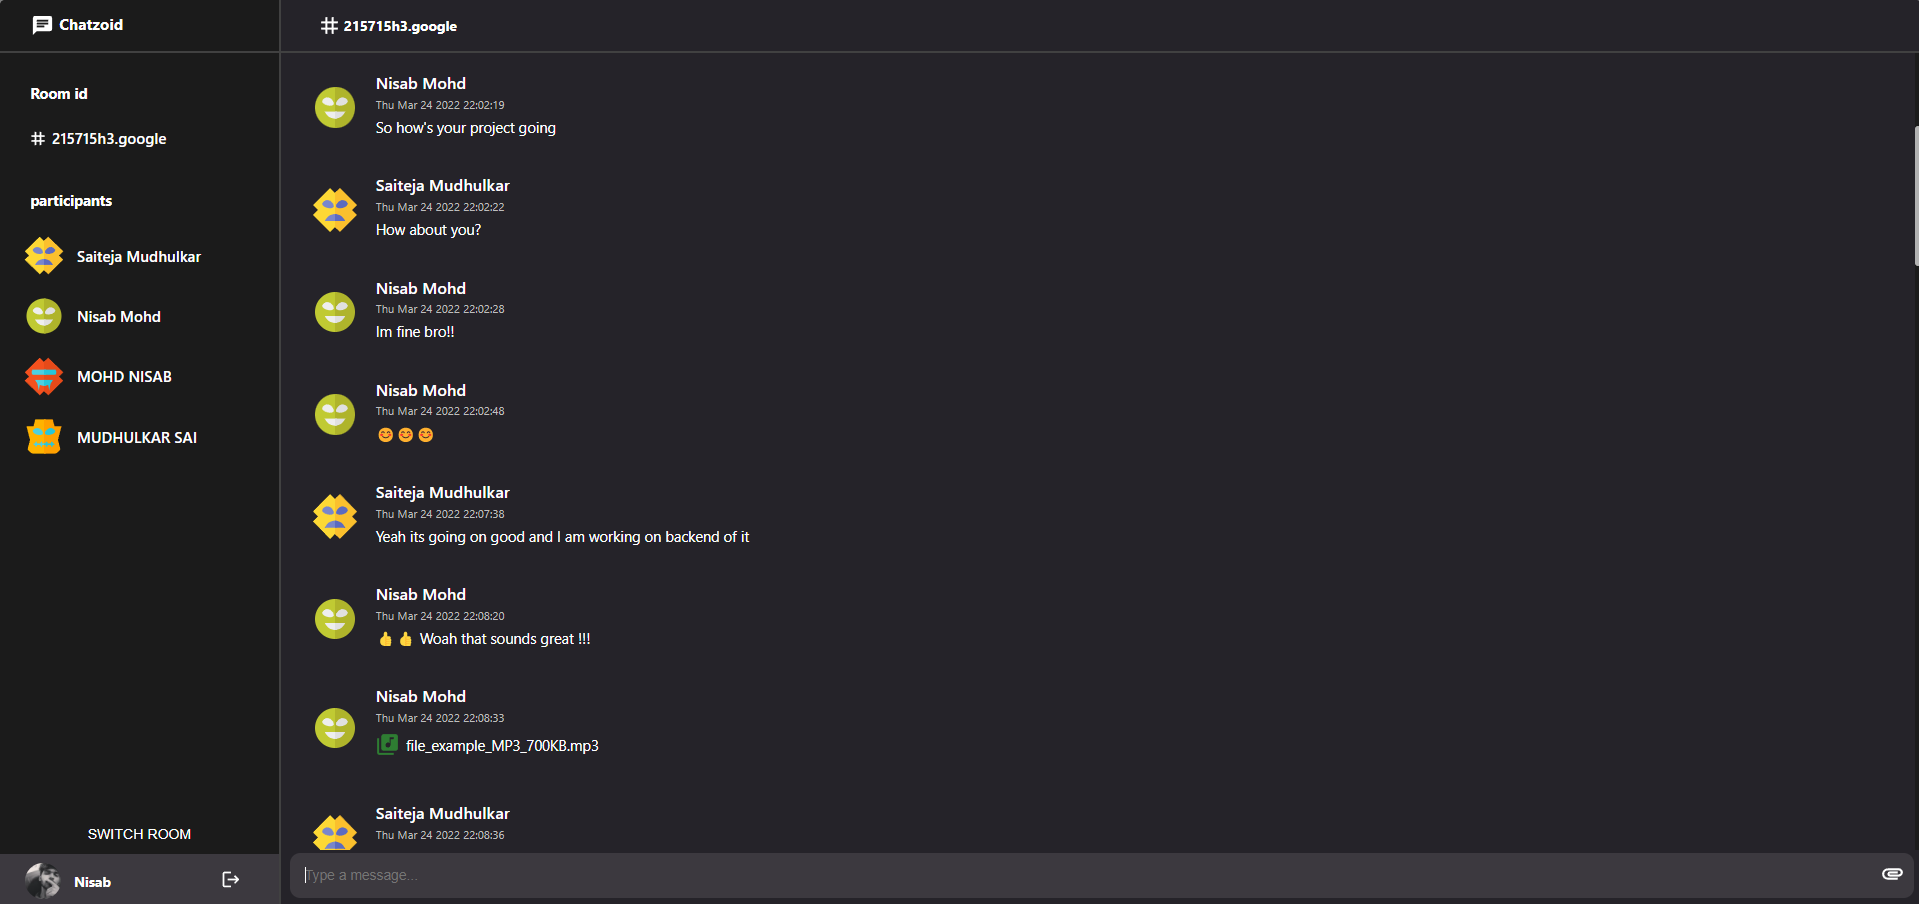
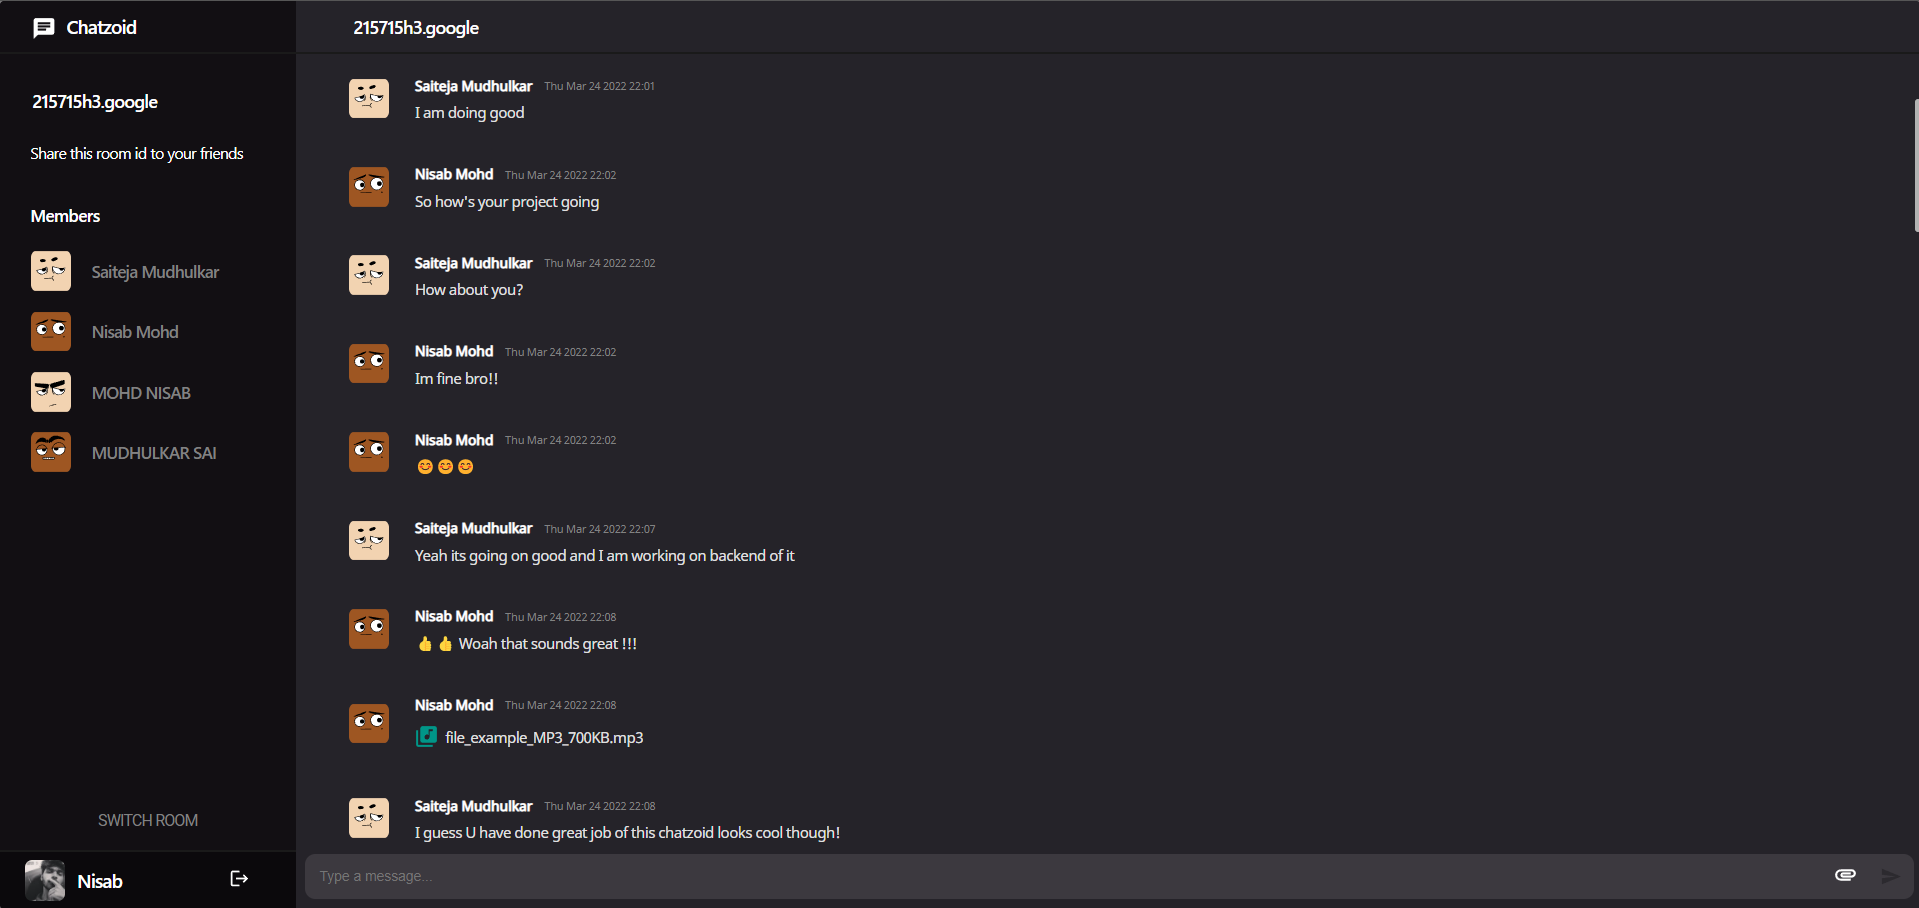
enhanced ui

diff --git a/src/Leftbar.js b/src/Leftbar.js
@@ -1,13 +1,12 @@
 import React, { useEffect, useState } from 'react'
 import ChatIcon from '@mui/icons-material/Chat';
 import LogoutIcon from '@mui/icons-material/Logout';
-import TagIcon from '@mui/icons-material/Tag';
 import { collection, onSnapshot, query } from 'firebase/firestore';
 import { db } from './firebase';
 import { Button } from '@mui/material';
 import MenuIcon from '@mui/icons-material/Menu';
 import './css/Responsive.css'
-import CloseIcon from '@mui/icons-material/Close';
+import ArrowBackIosNewIcon from '@mui/icons-material/ArrowBackIosNew';
 export const Leftbar = (props) => {
   const [show, setShow] = useState(false)
   const [user, setUser] = useState([])
@@ -31,48 +30,50 @@ export const Leftbar = (props) => {
     <>
       <div className="hamburger">
         {
-          (!show) ? (<button onClick={() => { menu() }} style={{ width: 'fit-content', margin: '0', outline: 'none', border: 'none', backgroundColor: 'transparent', cursor: 'pointer' }}><MenuIcon style={{ margin: '0', fontSize: '19px', marginBottom: '-4.5px',color:'white' }} ></MenuIcon></button>) : (<button onClick={() => { menu() }} style={{ width: 'fit-content', margin: '0', outline: 'none', border: 'none', backgroundColor: 'transparent', cursor: 'pointer',color:'white'  }}><CloseIcon style={{ fontSize: '19px', marginBottom: '-4.5px' }}></CloseIcon></button>)
+          (!show) ? (<button onClick={() => { menu() }} style={{ width: 'fit-content', margin: '0', outline: 'none', border: 'none', backgroundColor: 'transparent', cursor: 'pointer' }}><MenuIcon style={{ margin: '0', fontSize: '19px', marginBottom: '-4.5px', color: 'white' }} ></MenuIcon></button>) : (<button onClick={() => { menu() }} style={{ width: 'fit-content', margin: '0', outline: 'none', border: 'none', backgroundColor: 'transparent', cursor: 'pointer', color: 'white' }}><ArrowBackIosNewIcon style={{ fontSize: '17px', marginBottom: '-5.85px' }}></ArrowBackIosNewIcon></button>)
         }
 
       </div>
-      <div className='leftbar' id='showleft' style={{ backgroundColor: 'rgb(27,27,27)', minWidth: '262px', borderRight: '1.93px solid #414141', position: 'relative', height: '100%', flex: '0.17', transition: 'all 0.25s' }}>
+      <div className='leftbar' id='showleft' style={{ backgroundColor: 'rgb(18,15,19)', minWidth: '284px', position: 'relative', height: '100%', flex: '0.17', transition: 'all 0.25s' }}>
 
-        <div className="roomdetails" style={{ height: '48.75px', borderBottom: '2px solid #414141', display: 'flex', alignItems: 'center', position: 'relative',}}>
-          <ChatIcon color="diabled" style={{ marginLeft: '30px', width: '22px' }}></ChatIcon>
-          <h4 style={{ marginLeft: '5px', fontSize: '14.85px', marginTop: '-4px', color: 'white' }}>Chatzoid</h4>
+        <div className="roomdetails" style={{ height: '48.75px', borderBottom: '2px solid rgb(26,26,26)', display: 'flex', alignItems: 'center', position: 'relative',backgroundColor:'#120F13' }}>
+          <ChatIcon color="diabled" style={{ marginLeft: '30px', width: '25px', marginBottom: '-4px' }}></ChatIcon>
+          <h4 style={{ marginLeft: '9px', marginTop: '0px', color: 'white', font: 'Noto Sans', fontWeight: '500', fontStyle: 'normal', fontSize: '18px', letterSpacing: '-0.035em' }}>Chatzoid</h4>
         </div>
+
+        <div className="rommspecificidandp" style={{ display: 'flex', flexDirection: 'row', alignItems: 'center', marginTop: '34px' }}>
+          <p style={{ color: 'white', font: 'Noto Sans', fontWeight: '500', fontStyle: 'normal', fontSize: '17px', letterSpacing: '-0.035em', marginLeft: '31px', marginRight: '26px' }}>{props.roomid}</p>
+
+        </div>
+
         <div className="roomidandstuff" style={{ display: 'flex', flexDirection: 'row', alignItems: 'center', justifyContent: 'space-between', padding: '0 29px', marginTop: '29px' }}>
-          <h5 style={{ color: 'white', fontSize: '14px' }}>Room id</h5>
+          <hp style={{ color: 'white', font: 'Noto Sans', fontWeight: '400', fontStyle: 'normal', fontSize: '15px', letterSpacing: '-0.035em'}}>Share this room id to your friends</hp>
         </div>
-        <div className="rommspecificidandp" style={{ display: 'flex', flexDirection: 'row', alignItems: 'center', marginTop: '22px' }}>
-          <TagIcon style={{ marginLeft: '27px', width: '19px' }} color="diabled"></TagIcon>
-          <p style={{ color: 'white', fontSize: '14.5px', fontWeight: '600', marginLeft: '4px', marginRight: '26px' }}>{props.roomid}</p>
 
-        </div>
 
         <div className="sepater" style={{ marginTop: '29px', overflowY: 'scroll', height: '50vh' }}>
           <div className="roomidandstuff" style={{ display: 'flex', flexDirection: 'row', alignItems: 'center', justifyContent: 'space-between', padding: '0 29px', marginTop: '9px', marginBottom: '23.5px' }}>
-            <h5 style={{ color: 'white', fontSize: '14px' }}>participants</h5>
+            <h5 style={{ color: 'white', font: 'Noto Sans', fontWeight: '500', fontStyle: 'normal', fontSize: '16.5px', letterSpacing: '-0.035em' }}>Members</h5>
           </div>
           {
             Array.from(new Set(user)).map((item) => {
               return (
                 <div className="people" style={{ display: 'flex', flexDirection: 'row', alignItems: 'center', marginTop: '9px', marginBottom: '18px' }}>
-                  <img style={{ width: '40px', borderRadius: '100%', marginLeft: '22px' }} src={`https://avatars.dicebear.com/api/gridy/${item}.svg`} alt="" />
-                  <p style={{ color: 'white', fontSize: '14.5px', fontWeight: '600', marginLeft: '12px' }}>{item.split(' ')[0] + " " + item.split(' ')[1]}</p>
+                  <img style={{ width: '38px', height: '40px', borderRadius: '7px', marginLeft: '29.99px' }} src={`https://avatars.dicebear.com/api/adventurer-neutral/${item}.svg`} alt="" />
+                  <p style={{ color: '#828282', marginLeft: '19.9px', font: 'Noto Sans', fontWeight: '500', fontStyle: 'normal', fontSize: '16px', letterSpacing: '-0.035em' }}>{item.split(' ')[0] + " " + item.split(' ')[1]}</p>
                 </div>)
             })
           }
         </div>
-        <div className="switchroom" style={{ width: '100%', position: 'absolute', bottom: '55px', display: 'flex', justifyContent: 'center', alignItems: 'center' }}>
-          <Button onClick={() => { props.switchroom() }} size="small" sx={{ fontWeight: '500',color:'white' }}>
+        <div className="switchroom" style={{ width: '100%', position: 'absolute', bottom: '68px', display: 'flex', justifyContent: 'center', alignItems: 'center' }}>
+          <Button onClick={() => { props.switchroom() }} size="small" sx={{ color: '#828282', font: 'Noto Sans', fontWeight: '500', fontStyle: 'normal', fontSize: '15px', letterSpacing: '-0.039em' }}>
             switch room
           </Button>
         </div>
-        <div className="userdetails" style={{ marginTop: 'auto', display: 'flex', flexDirection: 'row', alignItems: 'center', position: 'absolute', bottom: '0px', height: '52px', backgroundColor: 'rgb(60,57,63)', width: '100%' }}>
-          <img src={props.photo} style={{ width: '35px', borderRadius: '100%', marginLeft: '24px' }} alt="" />
-          <h5 style={{ marginLeft: '12px', color: 'white' }}>{props.name.split(' ')[0]}</h5>
-          <button onClick={() => { props.logout(); }} style={{ cursor: 'pointer', width: '100%', marginLeft: '59px', outline: 'none', border: 'none', backgroundColor: 'transparent', position: 'absolute', left: '29px' }}><LogoutIcon style={{ width: '20px',color:'white' }}></LogoutIcon></button>
+        <div className="userdetails" style={{ marginTop: 'auto', display: 'flex', flexDirection: 'row', alignItems: 'center', position: 'absolute', bottom: '0px', height: '55px', backgroundColor: '#0B090C', width: '100%',borderTop:'2px solid rgb(26,26,26)' }}>
+          <img src={props.photo} style={{ width: '38px', height: '40px', borderRadius: '7px', marginLeft: '24px' }} alt="" />
+          <h5 style={{ marginLeft: '12px', color: 'white', font: 'Noto Sans', fontWeight: '500', fontStyle: 'normal', fontSize: '18px', letterSpacing: '-0.035em', zIndex: '99' }}>{props.name.split(' ')[0]}</h5>
+          <button onClick={() => { props.logout(); }} style={{ cursor: 'pointer', width: '100%', marginLeft: '59px', outline: 'none', border: 'none', backgroundColor: 'transparent', position: 'absolute', left: '29px' }}><LogoutIcon style={{ width: '20px', color: 'white' }}></LogoutIcon></button>
         </div>
       </div>
     </>

diff --git a/src/Chat.jsx b/src/Chat.jsx
@@ -7,14 +7,16 @@ import { db, storage } from './firebase';
 import { addDoc, collection, onSnapshot, orderBy, query } from 'firebase/firestore';
 import { serverTimestamp } from 'firebase/firestore';
 import { ref, uploadBytesResumable, getDownloadURL } from "firebase/storage";
-import { LinearProgress } from '@mui/material';
+import { Button, LinearProgress } from '@mui/material';
 import Navbar from './Navbar'
 import ImageIcon from '@mui/icons-material/Image';
 import PictureAsPdfIcon from '@mui/icons-material/PictureAsPdf';
 import LibraryMusicIcon from '@mui/icons-material/LibraryMusic';
 import VideocamIcon from '@mui/icons-material/Videocam';
-import { red } from '@mui/material/colors';
+import {red, teal } from '@mui/material/colors';
 import AttachmentIcon from '@mui/icons-material/Attachment';
+import SendIcon from '@mui/icons-material/Send';
+import './css/Responsive.css'
 function Chat(props) {
     const [input, setInput] = useState("")
     const [message, setMessage] = useState([])
@@ -128,13 +130,12 @@ function Chat(props) {
                     message.map((item, index) => {
                         return (
                             <div className="messageboxcont">
-                                <img style={{ width: '46.5px', marginTop: '3px',marginRight:'0px' }} src={`https://avatars.dicebear.com/api/gridy/${item.name}.svg`} alt="" />
+                                <img style={{ width: '38px',height:'40px', borderRadius: '7px', marginTop: '-6px',marginRight:'9px',marginLeft:'1.25vw' }} src={`https://avatars.dicebear.com/api/adventurer-neutral/${item.name}.svg`} alt="" />
                                 <div className="messagebox">
-                                    <div style={{ display: 'flex', flexDirection: 'column' }}>
-
-                                        <h5 style={{ fontSize: '15.65px', fontWeight: '600' }}>{item.name.split(' ')[0] + " " + item.name.split(' ')[1]}</h5>
-                                        <div className="timestamp" style={{ marginTop: '3.5px' }}>
-                                            <p style={{ color: '#bebebe', fontSize: '10.85px' }}>{item.timestamp?.toDate().toString().slice(0, 25)}</p>
+                                    <div style={{ display: 'flex', flexDirection: 'row',alignItems:'center' }}>
+                                        <h5  className='fontemmm'>{item.name.split(' ')[0] + " " + item.name.split(' ')[1]}</h5>
+                                        <div className="timestamp" style={{marginLeft:'11.25px',marginBottom:'-2px' }}>
+                                            <p className='tieemmm' style={{fontSize: '1.15em',color:'#828282',lineHeight:'25px',letterSpacing:'-0.035em',fontFamily:'Noto Sans' }}>{item.timestamp?.toDate().toString().slice(0, 21)}</p>
                                         </div>
                                     </div>
                                     {
@@ -150,13 +151,13 @@ function Chat(props) {
                                                     {
 
                                                         (item.filetype === "application/pdf") ? (
-                                                            <PictureAsPdfIcon sx={{ color: red[700] }} style={{ marginRight: '6px', fontSize: '24px' }}></PictureAsPdfIcon>
+                                                            <PictureAsPdfIcon sx={{ color: red[500] }} style={{ marginRight: '6px', fontSize: '24px' }}></PictureAsPdfIcon>
                                                         ) : (<></>)
                                                     }
                                                     {
 
                                                         (item.filetype === "audio/mpeg") ? (
-                                                            <LibraryMusicIcon color="success" style={{ marginRight: '6px', fontSize: '24px' }}></LibraryMusicIcon>
+                                                            <LibraryMusicIcon sx={{ color: teal[500] }} style={{ marginRight: '6px', fontSize: '24px' }}></LibraryMusicIcon>
                                                         ) : (<></>)
                                                     }
                                                     {
@@ -177,10 +178,6 @@ function Chat(props) {
                                             </p>
                                         )
                                     }
-                                    {/* <div className="timestamp" style={{marginTop:'3px',marginLeft:'-23px'}}>
-                                    {item.timestamp.toDate().toString().slice(0,25)}
-                                    </div> */}
-
                                 </div>
                             </div>
                         )
@@ -194,13 +191,13 @@ function Chat(props) {
                     <input type="file" name="" onChange={(e) => handlefiles(e)} id="filein" hidden />
                     <label htmlFor='filein' style={{ border: 'none', outline: 'none', cursor: 'pointer' }}><AttachmentIcon /></label>
 
-                    {/* {
-                        input ? (<Button onClick={() => { sendMessage() }} variant="outlined" style={{ height: '35px', marginRight: '9px' }} size="small">
-                            <p style={{ fontWeight: 'bold' }}>send</p>
-                        </Button>) : (<Button disabled variant="outlined" style={{ height: '35px', marginRight: '9px' }} size="small">
-                            <p style={{ fontWeight: 'bold' }}>send</p>
+                    {
+                        input ? (<Button onClick={() => { sendMessage() }} style={{ height: '35px', marginRight: '-19px' }} size="small">
+                            <SendIcon  sx={{fontSize:"21px"}}></SendIcon>
+                        </Button>) : (<Button disabled style={{ height: '35px', marginRight: '-19px' }} size="small">
+                            <SendIcon sx={{fontSize:"21px"}}></SendIcon>
                         </Button>)
-                    } */}
+                    }
 
                 </div>
             </div>

diff --git a/src/css/chatpage.css b/src/css/chatpage.css
@@ -3,7 +3,7 @@
     flex-direction: column;
     flex: 1;
     position: relative;
-    background-color: rgb(37,35,41);
+    background-color: #252329;
 }
 .avatar__chat__header img{
     width: 40px;
@@ -86,10 +86,15 @@
     user-select: none;
 }
 .chat__body__message{
-    font-size: 13.995px;
-    color:rgb(255, 255, 255);
+    font-family: 'Noto Sans';
+    font-style: normal;
+    font-weight: 500;
+    font-size: 14.5px;
+    line-height: 25px;
+    letter-spacing: -0.035em;
+    color: #E0E0E0;
     word-wrap: break-word;
-    padding-top: 5px;
+    padding-top: 2px;
     background-color: transparent;
 }
 .messageboxcont{
@@ -108,9 +113,30 @@
     height:85.65%;
     padding-bottom: 19px;
 }
+
+.chat__body::-webkit-scrollbar-track
+{
+	-webkit-box-shadow: inset 0 0 6px #252329;
+	border-radius: 10px;
+    scroll-behavior: smooth;
+}
+.chat__body::-webkit-scrollbar
+{
+	height: 9px;
+    width: 6px;
+    background-color: #252329;
+}
+
+.chat__body::-webkit-scrollbar-thumb
+{
+	border-radius: 10px;
+	-webkit-box-shadow: inset 0 0 6px rgba(189, 189, 189, 0.3);
+	background-color: rgb(177, 177, 177);
+}
+
 *::-webkit-scrollbar-track
 {
-	-webkit-box-shadow: inset 0 0 6px rgb(27,27,27);
+	-webkit-box-shadow: inset 0 0 6px rgb(18, 15, 19);
 	border-radius: 10px;
     scroll-behavior: smooth;
 }
@@ -118,7 +144,7 @@
 {
 	height: 9px;
     width: 6px;
-    background-color: rgb(27,27,27);
+    background-color: rgb(18, 15, 19);
 }
 
 *::-webkit-scrollbar-thumb
@@ -147,4 +173,12 @@
 	border-radius: 10px;
 	-webkit-box-shadow: inset 0 0 6px rgba(189, 189, 189, 0.3);
 	background-color: rgb(187, 187, 187);
+}
+.fontemmm{
+    font-size: '1em';
+    font-weight: '600';
+    color:'#828282';
+    line-height:'25px';
+    letter-spacing:'-0.035em';
+    font-family:'Noto Sans';
 }

diff --git a/src/Login.js b/src/Login.js
@@ -14,7 +14,7 @@ export const Login = (props) => {
         alignItems:'center',
         height: 'fit-content',
         padding:'62px 21px',
-        backgroundColor:'rgb(37,35,41)',
+        backgroundColor:'#252329',
         borderRadius:'8px',
         textAlign:'center'
     }
@@ -28,13 +28,12 @@ export const Login = (props) => {
 
         <div className='login' style={loginstyle}>
             <ChatIcon color="primary" sx={{ fontSize: 120 }} ></ChatIcon>
-            {/* <img style={{width:'120px'}} src={logo} alt="" /> */}
             <p style={{margin:'15px 0',fontSize:'22px',fontWeight:'400',color:'white',width:"295px",textAlign:'center'}}>Chatzoid</p>
             <h2 style={{color:'white',fontWeight:'400'}}>Welcome Back!</h2>
             <p style={{fontSize:'16px',width:'295px',marginTop:'9px',color:'white'}}>we are so exicted to see you again</p>
             <Button variant="text" sx={{ marginTop: '21px',width:'fit-content' }} onClick={senduserdetails} size="large">
                 <GoogleIcon color="white" style={{width:'24px'}}></GoogleIcon>
-                <p style={{width:'190px',color:'white',fontWeight:'600',marginLeft:'3px',marginBottom:'-3px'}}>Login using Google</p>
+                <p style={{width:'190px',color:'white',fontWeight:'500',marginLeft:'3px',marginBottom:'-3px'}}>Login using Google</p>
             </Button>
         </div>
     );

diff --git a/src/Room.js b/src/Room.js
@@ -11,8 +11,7 @@ export const Room = (props) => {
         setRoomid(random)
     }
   return (
-    <div style={{display:'flex',flexDirection:'column',rowGap:'21px',alignItems:'center',backgroundColor:'rgb(37,35,41)', padding:'43px 56px', borderRadius:'8px',width:'422px'}}>
-        {/* <Input  placeholder="Enter a room Id" inputProps={ariaLabel} /> */}
+    <div style={{display:'flex',flexDirection:'column',rowGap:'21px',alignItems:'center',backgroundColor:'#252329', padding:'43px 56px', borderRadius:'8px',width:'422px'}}>
         <div className="usernameandall">
         <Avatar sx={{width:'115px',height:'115px'}} alt={props.name} src={props.photo} />
         <h2 style={{margin:'auto',marginTop:'20px',color:'white',fontFamily:'sans-serif',marginBottom:'10px',fontWeight:'400'}}>{props.name}</h2>

diff --git a/src/Navbar.js b/src/Navbar.js
@@ -1,11 +1,9 @@
 import * as React from 'react';
-import TagIcon from '@mui/icons-material/Tag';
 // import './css/Re'
 export default function AccountMenu(props) {
     return (
         <div className='navbarmenu' >
-            <TagIcon color="diabled" ></TagIcon>
-            <h5 style={{marginLeft:'1.5px',color:'white'}}>{props.roomid}</h5>
+            <h5 style={{marginLeft:'1.125vw',color:'white',font:'Noto Sans',fontWeight:'500',fontStyle:'normal',fontSize:'17px',letterSpacing:'-0.035em'}}>{props.roomid}</h5>
         </div>
     );
 }

diff --git a/src/css/Responsive.css b/src/css/Responsive.css
@@ -25,12 +25,22 @@
         width:96vw;
     }
     .messageboxcont{
-        margin-left: 25px;
+        margin-left: 9px;
+    }
+}
+@media screen and (max-width:762px){
+    .fontemmm{
+        font-size: 0.85em;
+        width: 175px;
+    }
+    .tieemmm{
+        font-size: 12px;
+        width: 150px;
     }
 }
 .navbarmenu{
     height:49px;
-    border-bottom:1.98px solid #414141;
+    border-bottom:1.98px solid rgb(26,26,26);
     display:flex;
     align-items:center;
     padding-left: 35px;

diff --git a/public/index.html b/public/index.html
@@ -11,6 +11,9 @@
     />
     <link rel="apple-touch-icon" href="logo.png" />
     <link rel="manifest" href="%PUBLIC_URL%/manifest.json" />
+    <link rel="preconnect" href="https://fonts.googleapis.com">
+<link rel="preconnect" href="https://fonts.gstatic.com" crossorigin>
+<link href="https://fonts.googleapis.com/css2?family=Noto+Sans&family=Roboto&display=swap" rel="stylesheet">
     <title>Chatzoid</title>
   </head>
   <body>

diff --git a/src/App.css b/src/App.css
@@ -2,7 +2,7 @@
   /* background-image: url('./imgs/bg1.jpg');
   background-position: center; */
   /* background-color: rgb(37,35,41); */
-  background-color: rgb(27,27,27);
+  background-color: rgb(18, 15, 19);
   height: 100vh;
   display: flex;
   justify-content: center;
